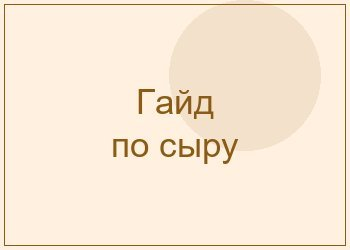
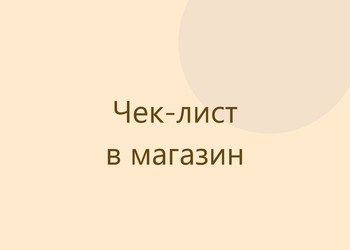
Лендинг: скачивание лид-магнитов + выравнивание карточек
- кнопки «Скачать» выровнены по низу карточек (flex-колонка + margin-top:auto)
- 6 карточек привязаны к PDF (files/*.pdf): атрибут download + цели Метрики dl_*
- карточки 5–6 переоформлены под готовые материалы: «Чек-лист в магазин»
  и «Опросник по детоксикации» (плашки-обложки в общем стиле)
- deploy_sweb.py: заливка папки files/*.pdf; .gitignore: files/ (артефакты)

Changed region(s): [[0.0, 0.0, 1.0, 1.0], [0.2857, 0.336, 0.7143, 0.7]]

diff --git a/index.html b/index.html
@@ -810,6 +810,8 @@
             overflow: hidden;
             box-shadow: 0 4px 16px rgba(0, 0, 0, 0.04);
             transition: transform 0.3s ease, box-shadow 0.3s ease;
+            display: flex;
+            flex-direction: column;
         }
 
         .free-item:hover {
@@ -825,6 +827,9 @@
 
         .free-item-body {
             padding: 20px;
+            flex: 1;
+            display: flex;
+            flex-direction: column;
         }
 
         .free-item h4 {
@@ -834,6 +839,11 @@
             line-height: 1.4;
             font-family: 'Manrope', sans-serif;
             font-weight: 600;
+        }
+
+        .free-item-body .btn {
+            margin-top: auto;       /* кнопку прижать к низу карточки — выравнивание по ряду */
+            align-self: flex-start; /* естественная ширина, по левому краю */
         }
 
         /* ========== DISCLAIMER ========== */
@@ -1617,42 +1627,42 @@
                     <img src="img/free-1.jpg" width="350" height="250" alt="Рецепты зелёных смузи" loading="lazy">
                     <div class="free-item-body">
                         <h4>6 СУПЕР рецептов зелёных смузи</h4>
-                        <a href="#" class="btn btn-outline btn-sm">Скачать</a>
+                        <a href="files/smuzi.pdf" class="btn btn-outline btn-sm" download data-goal="dl_smuzi">Скачать</a>
                     </div>
                 </div>
                 <div class="free-item fade-in">
                     <img src="img/free-2.jpg" width="350" height="250" alt="Чек-лист по рису и крупам" loading="lazy">
                     <div class="free-item-body">
                         <h4>Чек-лист по рису и крупам</h4>
-                        <a href="#" class="btn btn-outline btn-sm">Скачать</a>
+                        <a href="files/ris.pdf" class="btn btn-outline btn-sm" download data-goal="dl_ris">Скачать</a>
                     </div>
                 </div>
                 <div class="free-item fade-in">
                     <img src="img/free-3.jpg" width="350" height="250" alt="Как выбирать сыры" loading="lazy">
                     <div class="free-item-body">
                         <h4>Как выбирать сыры твёрдых сортов — 7 простых шагов</h4>
-                        <a href="#" class="btn btn-outline btn-sm">Скачать</a>
+                        <a href="files/syr.pdf" class="btn btn-outline btn-sm" download data-goal="dl_syr">Скачать</a>
                     </div>
                 </div>
                 <div class="free-item fade-in">
                     <img src="img/free-4.jpg" width="350" height="250" alt="Масла для жарки" loading="lazy">
                     <div class="free-item-body">
                         <h4>Масла для жарки — критерии выбора и безопасные варианты</h4>
-                        <a href="#" class="btn btn-outline btn-sm">Скачать</a>
+                        <a href="files/masla.pdf" class="btn btn-outline btn-sm" download data-goal="dl_masla">Скачать</a>
                     </div>
                 </div>
                 <div class="free-item fade-in">
-                    <img src="img/free-5.jpg" width="350" height="250" alt="Гайд: как правильно выбрать сыр" loading="lazy">
+                    <img src="img/free-5.jpg" width="350" height="250" alt="Чек-лист в магазин" loading="lazy">
                     <div class="free-item-body">
-                        <h4>Гайд: как правильно выбрать сыр</h4>
-                        <a href="#" class="btn btn-outline btn-sm">Скачать</a>
+                        <h4>Чек-лист в магазин: смотри и выбирай</h4>
+                        <a href="files/magazin.pdf" class="btn btn-outline btn-sm" download data-goal="dl_magazin">Скачать</a>
                     </div>
                 </div>
                 <div class="free-item fade-in">
-                    <img src="img/free-6.jpg" width="350" height="250" alt="Конструктор завтрака" loading="lazy">
+                    <img src="img/free-6.jpg" width="350" height="250" alt="Опросник по детоксикации" loading="lazy">
                     <div class="free-item-body">
-                        <h4>Конструктор правильного и полноценного завтрака</h4>
-                        <a href="#" class="btn btn-outline btn-sm">Скачать</a>
+                        <h4>Опросник: сигналы, что система очистки перегружена</h4>
+                        <a href="files/detox.pdf" class="btn btn-outline btn-sm" download data-goal="dl_detox">Скачать</a>
                     </div>
                 </div>
             </div>

diff --git a/deploy_sweb.py b/deploy_sweb.py
@@ -85,6 +85,21 @@ def main():
         print("Загружено картинок: %d" % len(imgs))
         ftp.cwd(c["dir"])
 
+        # папка files (PDF лид-магниты)
+        files_dir = os.path.join(REPO, "files")
+        if os.path.isdir(files_dir):
+            try:
+                ftp.cwd("files")
+            except error_perm:
+                ftp.mkd("files")
+                ftp.cwd("files")
+                print("  создан каталог files/")
+            pdfs = sorted(glob.glob(os.path.join(files_dir, "*.pdf")))
+            for p in pdfs:
+                upload(ftp, p, os.path.basename(p))
+            print("Загружено PDF: %d" % len(pdfs))
+            ftp.cwd(c["dir"])
+
         print("\nСодержимое %s:" % c["dir"])
         ftp.retrlines("LIST")
     finally:
